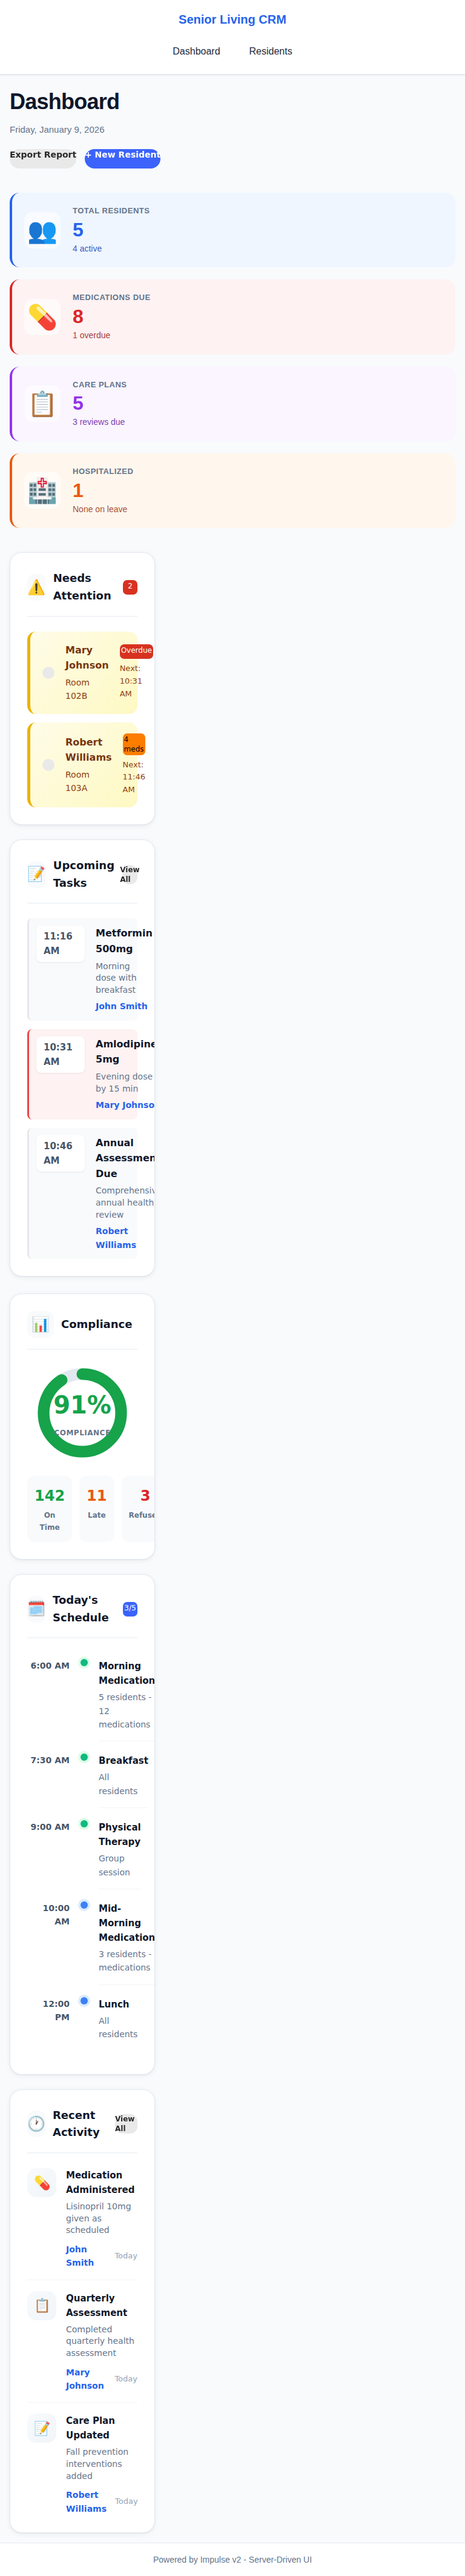
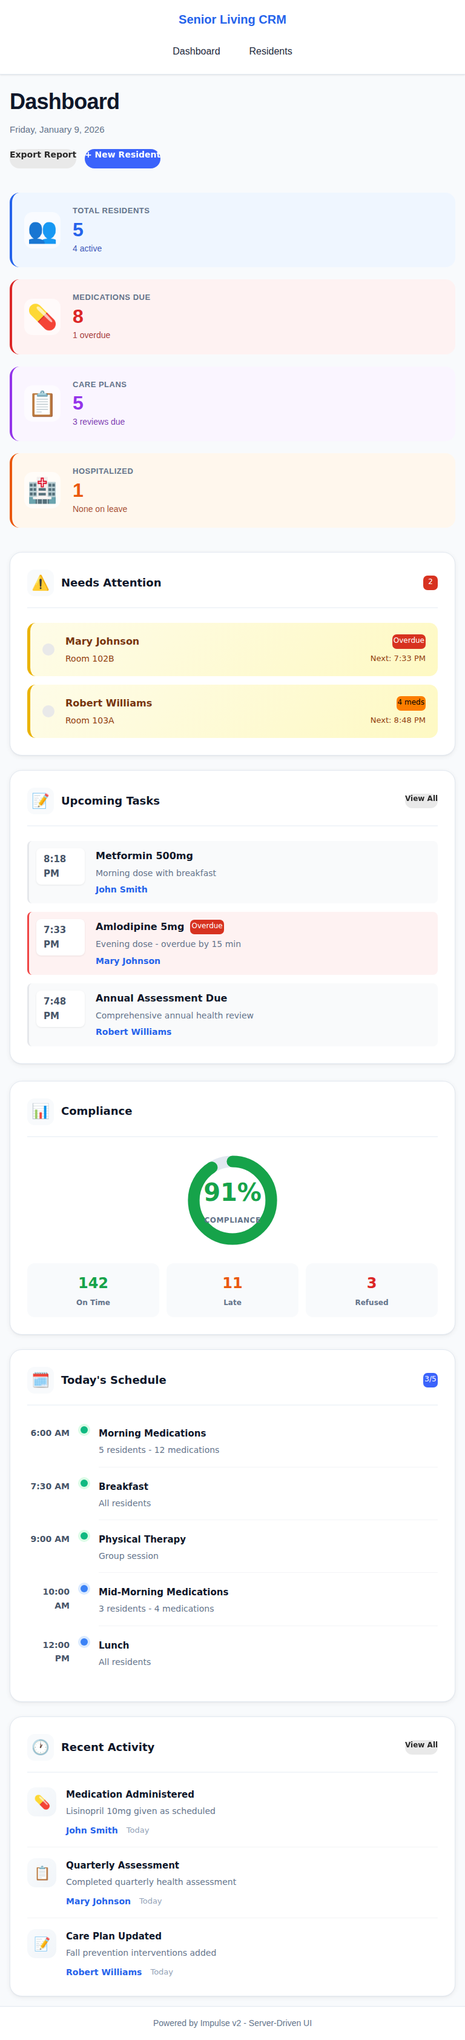
fix: Properly size Dashboard and Form components for desktop
- Add global S2 Card overrides to force full-width expansion
- Fix dashboard grid to properly fill 1920px desktop screens
- Fix Create Resident form to use full-width layout with proper fields
- Add desktop-specific test for Create Resident form
- Update form container and card styles for enterprise appearance
- All 14 E2E tests pass across desktop/tablet/mobile viewports

diff --git a/impulse-v2/samples/SampleApp/client/styles.css b/impulse-v2/samples/SampleApp/client/styles.css
@@ -2,6 +2,38 @@
    Impulse v2 - Senior Living CRM Styles
    ======================================== */
 
+/* ========================================
+   CRITICAL: Global S2 Card Overrides
+   Force React Spectrum S2 Card to fill containers
+   ======================================== */
+
+/* Target S2 Card root element */
+[class*="Card_root"],
+[class*="card_root"],
+[data-react-spectrum-card] {
+  width: 100% !important;
+  max-width: none !important;
+  box-sizing: border-box !important;
+}
+
+/* Target any S2 card-like containers */
+.dashboard-card,
+.form-card,
+.info-card,
+.resident-card,
+.impulse-card {
+  width: 100% !important;
+  max-width: none !important;
+  box-sizing: border-box !important;
+}
+
+/* Ensure card children expand */
+.dashboard-card > *,
+.form-card > *,
+.form-card form {
+  width: 100%;
+}
+
 :root {
   --color-primary: #2563eb;
   --color-primary-dark: #1d4ed8;
@@ -1003,7 +1035,7 @@ h4 {
 /* Main Grid Layout - Desktop First */
 .dashboard-main {
   display: grid;
-  grid-template-columns: 1fr 400px;
+  grid-template-columns: 1fr 420px;
   gap: 28px;
   align-items: start;
 }
@@ -1024,6 +1056,13 @@ h4 {
 .alerts-card,
 .tasks-card {
   min-height: 500px;
+}
+
+/* CRITICAL: Force S2 Card to fill container */
+.dashboard-card {
+  width: 100% !important;
+  max-width: none !important;
+  box-sizing: border-box !important;
 }
 
 /* Card Base Styles - Larger Desktop Cards */
@@ -2234,41 +2273,45 @@ h4 {
 }
 
 /* ========================================
-   NEW Form Styles - Modern S2 Design
+   NEW Form Styles - Enterprise Desktop Design
    ======================================== */
 
 .form-container {
-  max-width: 700px;
+  max-width: 1200px;
   margin: 0 auto;
-  padding: 24px;
+  padding: 32px 40px;
 }
 
 .form-header {
-  margin-bottom: 32px;
+  margin-bottom: 40px;
 }
 
 .form-title {
-  font-size: 28px;
-  font-weight: 700;
-  color: #111827;
+  font-size: 36px;
+  font-weight: 800;
+  color: #0f172a;
   margin: 0 0 8px 0;
 }
 
 .form-subtitle {
-  font-size: 16px;
-  color: #6b7280;
+  font-size: 15px;
+  color: #64748b;
 }
 
+/* CRITICAL: Force S2 Card to be full width for forms */
 .form-card {
+  width: 100% !important;
+  max-width: 100% !important;
+  box-sizing: border-box !important;
   background: white;
   border-radius: 20px;
-  padding: 32px;
-  box-shadow: 0 1px 3px rgba(0,0,0,0.08);
-  border: 1px solid #f1f5f9;
+  padding: 40px 48px;
+  box-shadow: 0 2px 8px rgba(0,0,0,0.06);
+  border: 1px solid #e2e8f0;
 }
 
 .form-section {
-  margin-bottom: 32px;
+  margin-bottom: 36px;
 }
 
 .form-section:last-child {
@@ -2277,38 +2320,67 @@ h4 {
 
 .form-section-title {
   font-size: 14px;
-  font-weight: 600;
-  color: #6b7280;
+  font-weight: 700;
+  color: #64748b;
   text-transform: uppercase;
   letter-spacing: 0.5px;
-  margin-bottom: 16px;
-  padding-bottom: 8px;
+  margin-bottom: 20px;
+  padding-bottom: 12px;
   border-bottom: 2px solid #f1f5f9;
 }
 
 .form-grid {
   display: grid;
   grid-template-columns: repeat(2, 1fr);
-  gap: 20px;
+  gap: 24px;
 }
 
 .form-field {
   display: flex;
   flex-direction: column;
-  gap: 6px;
+  gap: 8px;
 }
 
 .form-field.full-width {
   grid-column: span 2;
 }
 
+/* Form row - side by side fields */
+.form-row {
+  display: grid;
+  grid-template-columns: repeat(2, 1fr);
+  gap: 24px;
+  margin-bottom: 20px;
+}
+
+.form-row > * {
+  flex: 1;
+  min-width: 0;
+}
+
 .form-actions {
   display: flex;
   justify-content: flex-end;
-  gap: 12px;
-  margin-top: 32px;
-  padding-top: 24px;
-  border-top: 1px solid #f1f5f9;
+  gap: 16px;
+  margin-top: 40px;
+  padding-top: 28px;
+  border-top: 2px solid #f1f5f9;
+}
+
+/* Force S2 TextField to expand */
+.form-card [class*="TextField"],
+.form-card [class*="textfield"] {
+  width: 100% !important;
+}
+
+@media (max-width: 1024px) {
+  .form-container {
+    padding: 24px;
+  }
+
+  .form-card {
+    padding: 32px;
+  }
 }
 
 @media (max-width: 768px) {
@@ -2317,10 +2389,11 @@ h4 {
   }
 
   .form-card {
-    padding: 20px;
+    padding: 24px;
   }
 
-  .form-grid {
+  .form-grid,
+  .form-row {
     grid-template-columns: 1fr;
   }
 

diff --git a/impulse-v2/samples/SampleApp/Features/Residents/CreateForm.tsx b/impulse-v2/samples/SampleApp/Features/Residents/CreateForm.tsx
@@ -331,10 +331,13 @@ export function CreateResidentPage() {
   const navigate = useNavigate();
 
   return (
-    <div className="app-main">
-      <div className="page-header">
-        <Heading level={1}>New Resident</Heading>
-      </div>
+    <div className="form-container">
+      <header className="form-header">
+        <Heading level={1} UNSAFE_className="form-title">New Resident</Heading>
+        <Text UNSAFE_className="form-subtitle">
+          Create a new resident profile for your facility
+        </Text>
+      </header>
       <CreateResidentForm
         onCancel={() => navigate({ to: '/residents' })}
         onSuccess={(id) => navigate({ to: `/residents/${id}` })}

diff --git a/impulse-v2/tests/Impulse.Playwright.Tests/tests-client/responsive.spec.ts b/impulse-v2/tests/Impulse.Playwright.Tests/tests-client/responsive.spec.ts
@@ -34,6 +34,17 @@ test.describe('Responsive Design', () => {
     });
   });
 
+  test('Create form renders correctly on desktop (1920px)', async ({ page }) => {
+    await page.setViewportSize({ width: 1920, height: 1080 });
+    await page.goto('/residents/new');
+    await page.waitForTimeout(2000);
+
+    await page.screenshot({
+      path: 'test-results-client/create-form-desktop.png',
+      fullPage: true
+    });
+  });
+
   test('Dashboard renders correctly on mobile (375px)', async ({ page }) => {
     await page.setViewportSize({ width: 375, height: 812 }); // iPhone X
     await page.goto('/dashboard');
